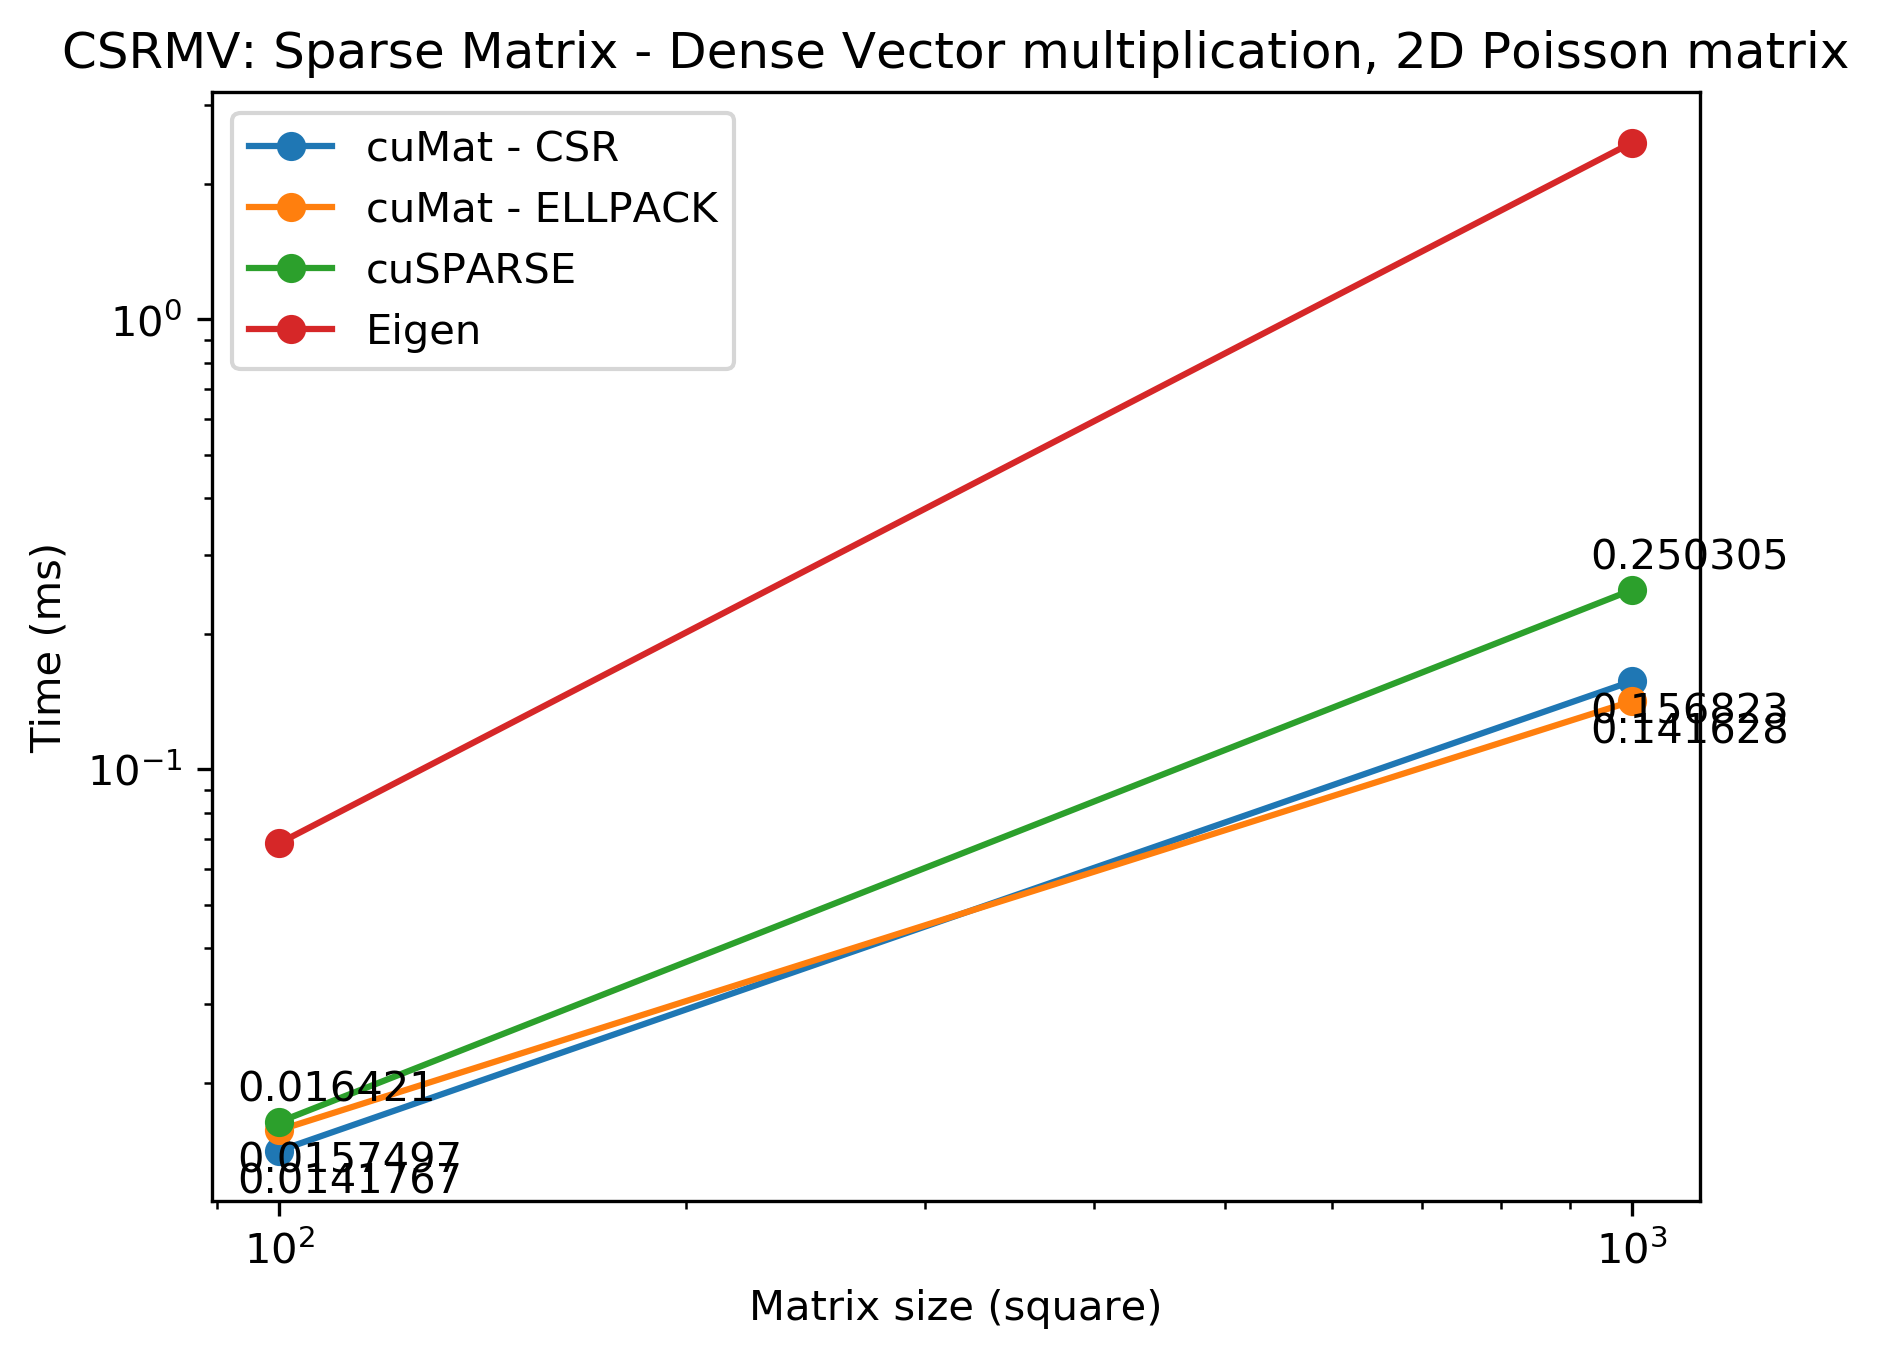
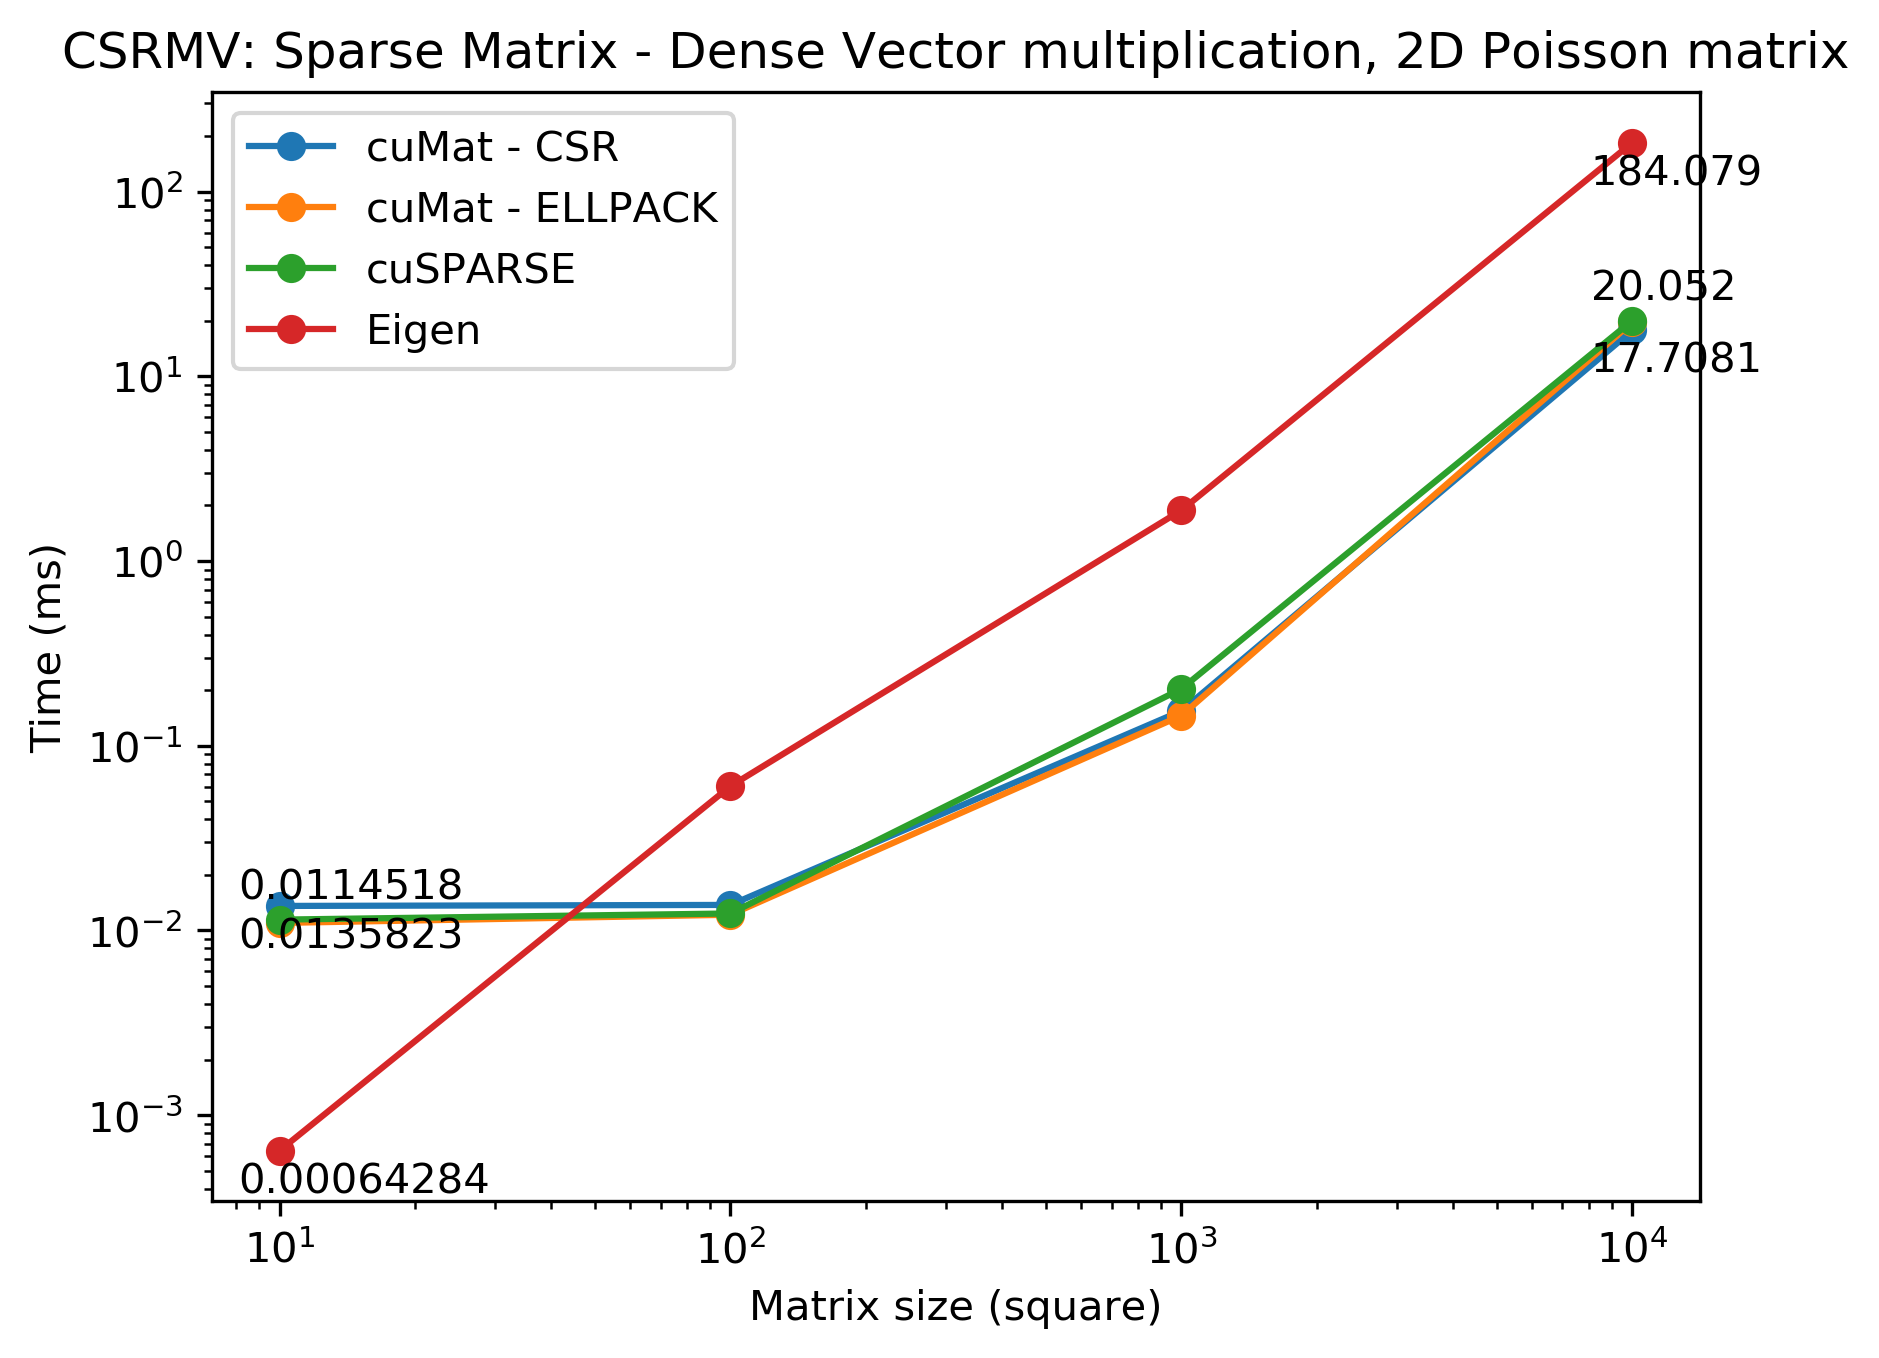
finished benchmarks. Sadly, ELLPACK is not faster than CSR for the Poisson Diffusion

diff --git a/cuMat/src/SparseProductEvaluation.h b/cuMat/src/SparseProductEvaluation.h
@@ -48,14 +48,14 @@ namespace internal
         typedef typename R::Scalar RightScalar;
         typedef typename M::Scalar OutputScalar;
         typedef ProductElementFunctor<LeftScalar, RightScalar, ProductArgOp::NONE, ProductArgOp::NONE, ProductArgOp::NONE> Functor;
-        const int* JA = matrix.getSparsityPattern().JA.data();
-        const int* IA = matrix.getSparsityPattern().IA.data();
+		SparsityPattern<CSR>::IndexVector JA = matrix.getSparsityPattern().JA;
+		SparsityPattern<CSR>::IndexVector IA = matrix.getSparsityPattern().IA;
 		const int nnz = matrix.getSparsityPattern().nnz;
         CUMAT_KERNEL_1D_LOOP(outer, virtual_size)
-            int start = JA[outer];
-            int end = JA[outer + 1];
+            int start = JA.getRawCoeff(outer);
+            int end = JA.getRawCoeff(outer + 1);
             if (start>=end) continue;
-            int inner = IA[start];
+            int inner = IA.getRawCoeff(start);
             OutputScalar value[Batches];
 #pragma unroll
             for (int b = 0; b < Batches; ++b) {
@@ -68,7 +68,7 @@ namespace internal
             }
             for (int i=start+1; i<end; ++i)
             {
-                inner = IA[i];
+                inner = IA.getRawCoeff(i);
 #pragma unroll
                 for (int b = 0; b < Batches; ++b) {
                     LeftScalar tmp1 = BroadcastMatrix

diff --git a/benchmarks/csrmv/MakePlots.py b/benchmarks/csrmv/MakePlots.py
@@ -28,12 +28,12 @@ plt.plot(xdata, [d[0] for d in results["CuMat_CSR"]], '-o', label='cuMat - CSR')
 plt.plot(xdata, [d[0] for d in results["CuMat_ELLPACK"]], '-o', label='cuMat - ELLPACK')
 plt.plot(xdata, [d[0] for d in results["CuBlas"]], '-o', label='cuSPARSE')
 plt.plot(xdata, [d[0] for d in results["Eigen"]], '-o', label='Eigen')
-for i,j in zip([xdata[0], xdata[-1]],[results["CuMat_ELLPACK"][0][0], results["CuMat_ELLPACK"][-1][0]]):
-    plt.annotate(str(j),xy=(i,j), xytext=(-10,-10), textcoords='offset points')
 for i,j in zip([xdata[0], xdata[-1]],[results["CuMat_CSR"][0][0], results["CuMat_CSR"][-1][0]]):
     plt.annotate(str(j),xy=(i,j), xytext=(-10,-10), textcoords='offset points')
 for i,j in zip([xdata[0], xdata[-1]],[results["CuBlas"][0][0], results["CuBlas"][-1][0]]):
     plt.annotate(str(j),xy=(i,j), xytext=(-10,5), textcoords='offset points')
+for i,j in zip([xdata[0], xdata[-1]],[results["Eigen"][0][0], results["Eigen"][-1][0]]):
+    plt.annotate(str(j),xy=(i,j), xytext=(-10,-10), textcoords='offset points')
 plt.xscale(xscale)
 plt.yscale(yscale)
 plt.xlabel(xlabel)

diff --git a/cuMat/src/Matrix.h b/cuMat/src/Matrix.h
@@ -654,7 +654,9 @@ public:
 	*/
 	__device__ CUMAT_STRONG_INLINE const _Scalar& coeff(Index row, Index col, Index batch, Index /*index*/) const
 	{
-		return cuda::load(data_.data() + index(row, col, batch));
+		Index idx = index(row, col, batch);
+		//printf("[Thread %06d] memread %p at %i\n", int(blockIdx.x * blockDim.x + threadIdx.x), data_.data(), int(idx));
+		return cuda::load(data_.data() + idx);
 	}
 
 	/**
@@ -684,6 +686,7 @@ public:
 	{
 		CUMAT_ASSERT_CUDA(index >= 0);
 		CUMAT_ASSERT_CUDA(index < size());
+		//printf("[Thread %06d] memread %p at %i\n", int(blockIdx.x * blockDim.x + threadIdx.x), data_.data(), int(index));
 		return cuda::load(data_.data() + index);
 	}
 

diff --git a/cuMat/src/CudaUtils.h b/cuMat/src/CudaUtils.h
@@ -17,7 +17,7 @@ namespace cuda
 	 * \return the value at that adress
 	 */
 	template<typename T>
-	__device__ CUMAT_STRONG_INLINE const T& load(const T* ptr)
+	__device__ CUMAT_STRONG_INLINE T load(const T* ptr)
 	{
 		//#if __CUDA_ARCH__ >= 350
 		//		return __ldg(ptr);
@@ -28,7 +28,7 @@ namespace cuda
 #if __CUDA_ARCH__ >= 350
 #define LOAD(T)			\
 	template<>			\
-	__device__ CUMAT_STRONG_INLINE const T& load<T>(const T* ptr)	\
+	__device__ CUMAT_STRONG_INLINE T load<T>(const T* ptr)	\
 	{																\
 		return __ldg(ptr);											\
 	}
